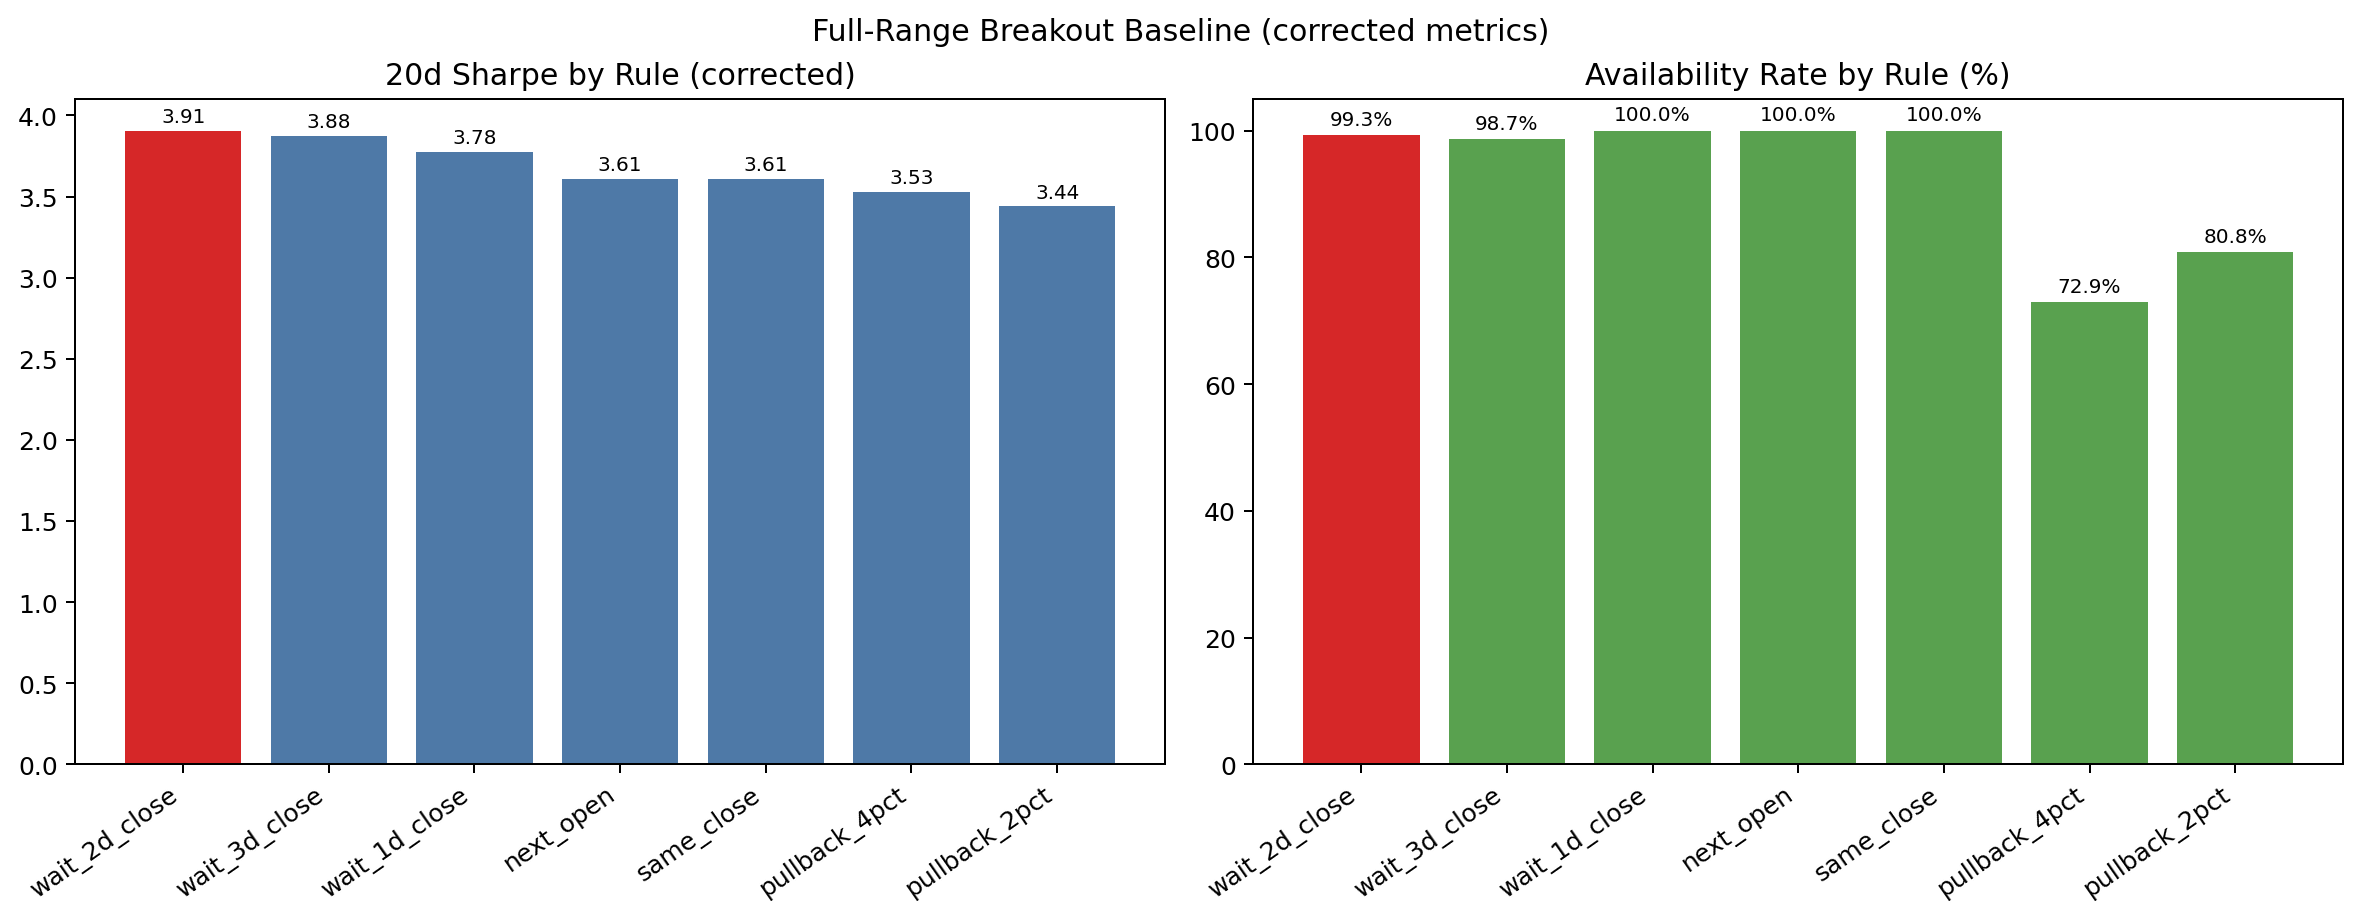
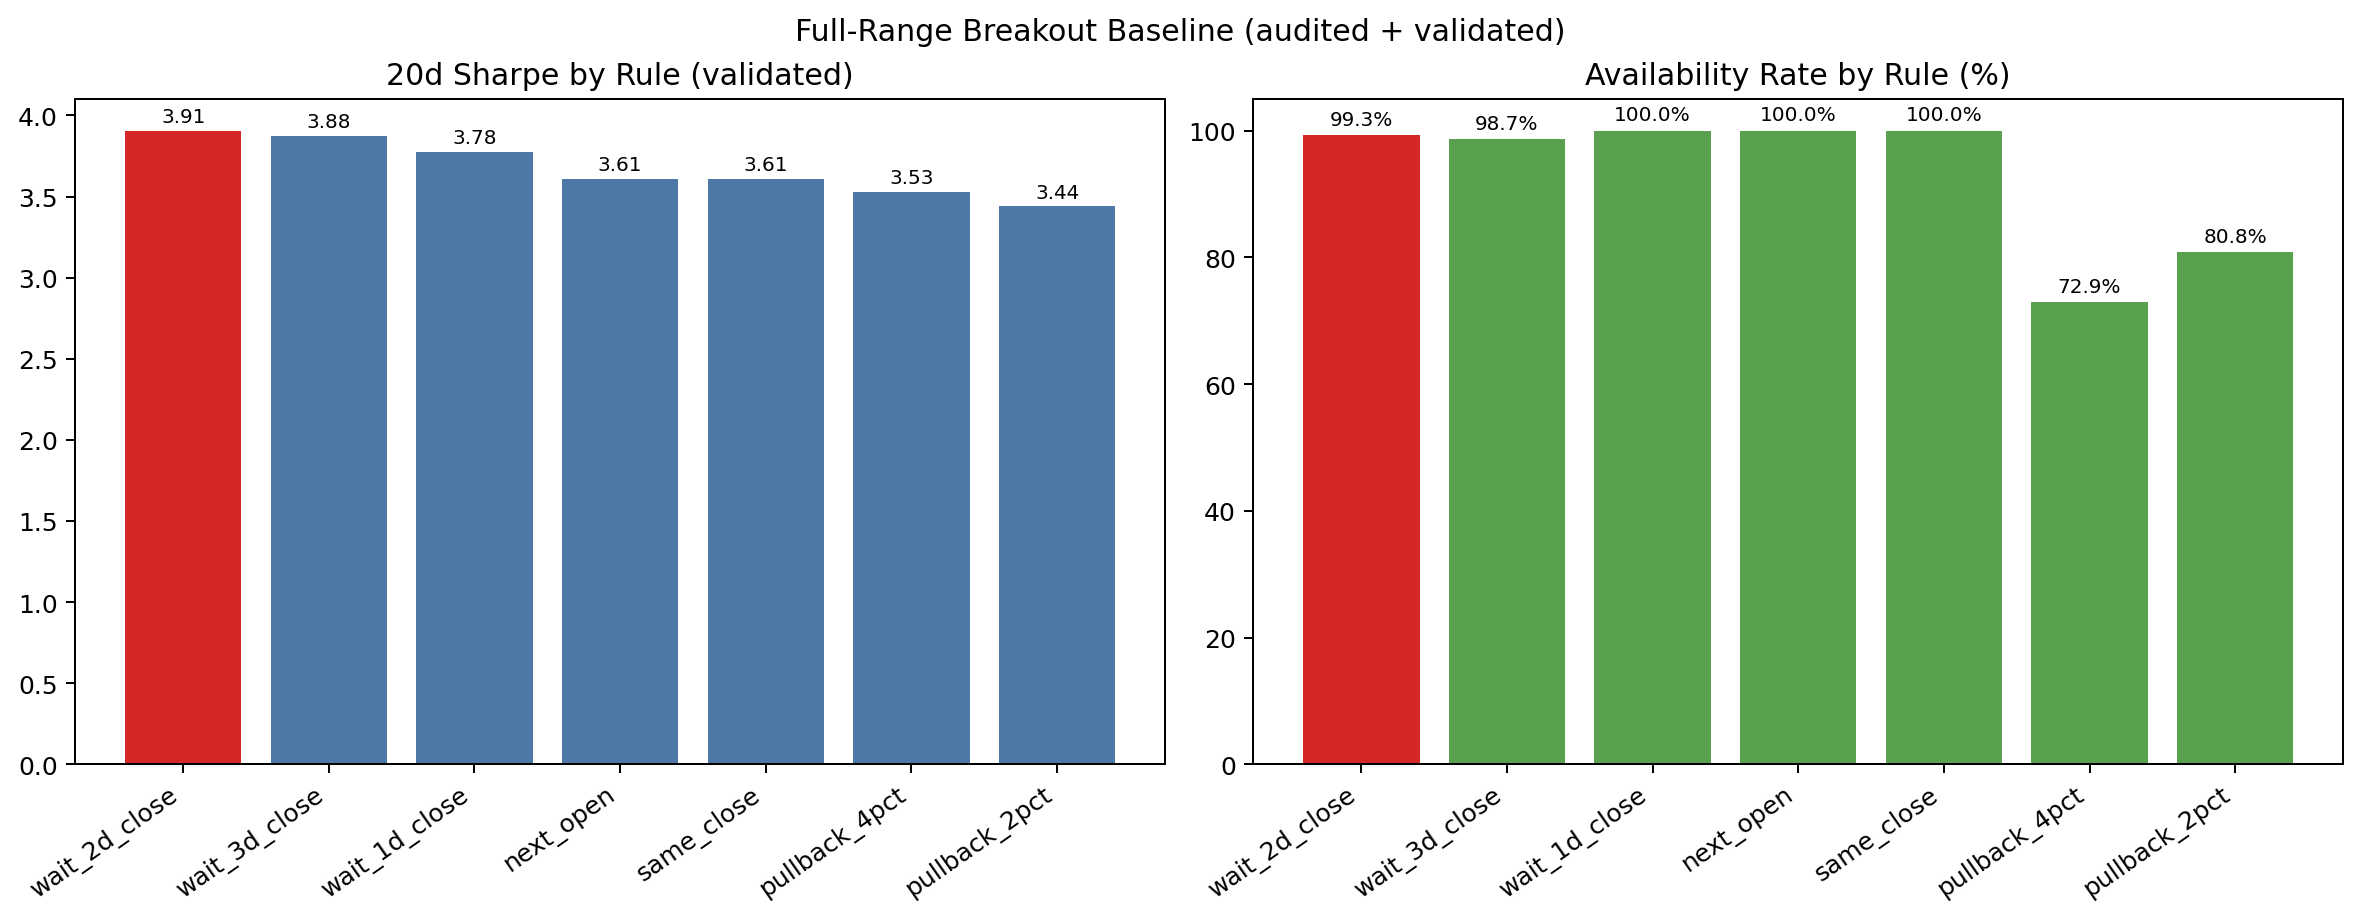
docs: add report prepublish validator hook

Changed region(s): [[0.1547, 0.0, 0.6805, 0.0913]]

diff --git a/content/market-intel/research/wait-2d-close-review.md b/content/market-intel/research/wait-2d-close-review.md
@@ -50,7 +50,7 @@ time_verification_status: confirmed
 - corrected full-range 기준에서 `wait_2d_close`는 **20d Sharpe 1위**다.
 - raw average return 기준으론 1위가 아니다.
   - `pullback_4pct`: `5.44%`
-  - `pullback_2pct`: `5.00%`
+  - `pullback_2pct`: `5.0%`
   - `same_close`: `4.76%`
   - `wait_1d_close`: `4.61%`
   - `wait_2d_close`: `4.58%`
@@ -109,14 +109,13 @@ flowchart TD
 ## Full-range comparison table (corrected)
 | rule | avail / total | avail rate | 5d avg | 10d avg | 20d avg | 20d win | 20d sharpe | 20d median | MFE20 | MAE20 | new-high-20d |
 | --- | ---: | ---: | ---: | ---: | ---: | ---: | ---: | ---: | ---: | ---: | ---: |
-| `same_close` | 29,260 / 29,260 | 100.00% | 1.38% | 2.30% | 4.76% | 56.92% | 3.6086 | 0.35% | 19.44% | -11.03% | 85.93% |
-| `next_open` | 29,257 / 29,260 | 99.99% | 1.02% | 2.01% | 4.55% | 56.80% | 3.6095 | 0.32% | 18.67% | -10.99% | 83.47% |
-| `wait_1d_close` | 29,257 / 29,260 | 99.99% | 1.09% | 2.08% | 4.61% | 57.12% | 3.7779 | 0.37% | 18.72% | -10.89% | 83.47% |
-| `wait_2d_close` | 29,061 / 29,260 | 99.32% | 1.00% | 2.09% | 4.58% | 57.21% | 3.9063 | 0.36% | 18.30% | -10.66% | 82.02% |
-| `wait_3d_close` | 28,866 / 29,260 | 98.65% | 0.92% | 2.05% | 4.48% | 57.02% | 3.8756 | 0.33% | 17.94% | -10.49% | 80.75% |
-| `pullback_2pct` | 23,642 / 29,260 | 80.80% | 1.77% | 3.09% | 5.00% | 52.92% | 3.4390 | 0.94% | 21.06% | -11.70% | 73.49% |
-| `pullback_4pct` | 21,340 / 29,260 | 72.93% | 2.46% | 3.74% | 5.44% | 52.93% | 3.5269 | 0.95% | 22.16% | -11.58% | 65.68% |
-
+| `same_close` | 29,260 / 29,260 | 100.00% | 1.48% | 2.46% | 4.76% | 56.92% | 3.6086 | 0.35% | 19.68% | -11.16% | 85.80% |
+| `next_open` | 29,257 / 29,260 | 99.99% | 1.09% | 2.17% | 4.55% | 56.80% | 3.6095 | 0.32% | 18.87% | -11.15% | 83.29% |
+| `wait_1d_close` | 29,257 / 29,260 | 99.99% | 1.19% | 2.27% | 4.61% | 57.12% | 3.7779 | 0.37% | 18.97% | -11.01% | 83.29% |
+| `wait_2d_close` | 29,061 / 29,260 | 99.32% | 1.09% | 2.30% | 4.58% | 57.21% | 3.9063 | 0.36% | 18.59% | -10.79% | 81.90% |
+| `wait_3d_close` | 28,866 / 29,260 | 98.65% | 1.01% | 2.32% | 4.48% | 57.02% | 3.8756 | 0.33% | 18.32% | -10.63% | 80.67% |
+| `pullback_2pct` | 23,642 / 29,260 | 80.80% | 1.84% | 3.28% | 5.00% | 52.92% | 3.4390 | 0.94% | 21.36% | -11.98% | 73.37% |
+| `pullback_4pct` | 21,340 / 29,260 | 72.93% | 2.46% | 3.90% | 5.44% | 52.93% | 3.5269 | 0.95% | 22.43% | -11.98% | 65.73% |
 ## Visual check
 ### 1) Full-range scorecard
 ![[market-intel/assets/wait-2d-close-fullrange-sharpe-availability.png]]
@@ -144,6 +143,11 @@ Interpretation:
 감사 과정에서 가장 먼저 걸린 이상 신호는 이것이었다.
 - 이전 요약에서 `next_open`과 `wait_1d_close` 결과가 aggregate level에서 사실상 동일했다.
 - 두 rule은 entry price 정의가 다르기 때문에, 완전히 동일하면 먼저 계산 bug를 의심해야 한다.
+- corrected historical rows를 다시 비교하면, **`next_open` vs `wait_1d_close` mismatch event는 총 `28,007`건**이다.
+
+즉 manager 관점에서 이 숫자는 중요하다.
+- “두 rule이 원래부터 같은가?”가 아니라
+- **“원래 같지 않아야 하는데, 예전 집계가 비정상적으로 같아 보였던 것”** 이라는 증거이기 때문이다.
 
 ### Verification check 2: root cause identified in code
 확인 결과, 원인은 `scripts/export_high_signal_entry_outcomes.py`의 `returns_from_entry(...)`였다.
@@ -253,9 +257,11 @@ manager 관점에선 이게 중요하다.
 - `wait_2d_close` vs `next_open`
   - Sharpe delta: `+0.2968`
   - avg delta: `+0.03%p`
+  - availability delta: `-0.67%p`
 - `wait_2d_close` vs `wait_1d_close`
   - Sharpe delta: `+0.1284`
   - avg delta: `-0.03%p`
+  - availability delta: `-0.67%p`
 
 즉 `wait_2d_close`는 corrected data에서도 top-tier이지만,
 **승자독식식으로 과장할 정도의 gap은 아니다.**
@@ -322,6 +328,38 @@ manager는 결국 이걸 묻는다.
 4. stock-level heterogeneity
    - does the edge concentrate in a few names?
    - or is it broadly distributed?
+
+## Automated validator bot
+이 note를 사람이 눈으로만 검토하면 다시 놓치는 부분이 생길 수 있다.
+그래서 리포트 작성 bot와 별도로, **리포트 검증 bot**이 있어야 한다.
+
+현재 검증 스크립트:
+- `scripts/validate_wait_2d_close_report.py`
+
+역할:
+- corrected raw outcome JSON과 recheck summary를 다시 읽는다
+- report 안의 핵심 claim/숫자/bug section/차트 참조를 검증한다
+- 특히 아래를 자동 확인한다
+  - `wait_2d_close` Sharpe claim이 recheck JSON과 일치하는가
+  - `wait_2d_close` count reconciliation row가 최신 corrected counts와 일치하는가
+  - `next_open` vs `wait_1d_close` mismatch count (`28,007`)가 note에 명시돼 있는가
+  - mismatch sample event (`52w_breakout:042700:2026-03-10`) 값이 note에 들어 있는가
+  - required chart assets가 note에 참조되고 실제 파일도 존재하는가
+  - verification provenance script들이 note에 언급돼 있는가
+
+run command:
+```bash
+cd /Users/gbserver/repos/jmkr_kj
+python scripts/validate_wait_2d_close_report.py
+```
+
+expected behavior:
+- exit code `0` → report와 corrected data가 일치
+- exit code `1` → report가 stale/missing/incorrect claim을 포함
+
+manager 관점에선 이게 중요하다.
+- report bot이 실수할 수 있다는 걸 전제로 하고
+- **검증 bot이 숫자와 문구를 다시 잡아줘야 하기 때문**이다.
 
 ## Companion notes
 - sample review: [[market-intel/research/high-signal-entry-backtest-sample|high-signal-entry-backtest-sample]]
